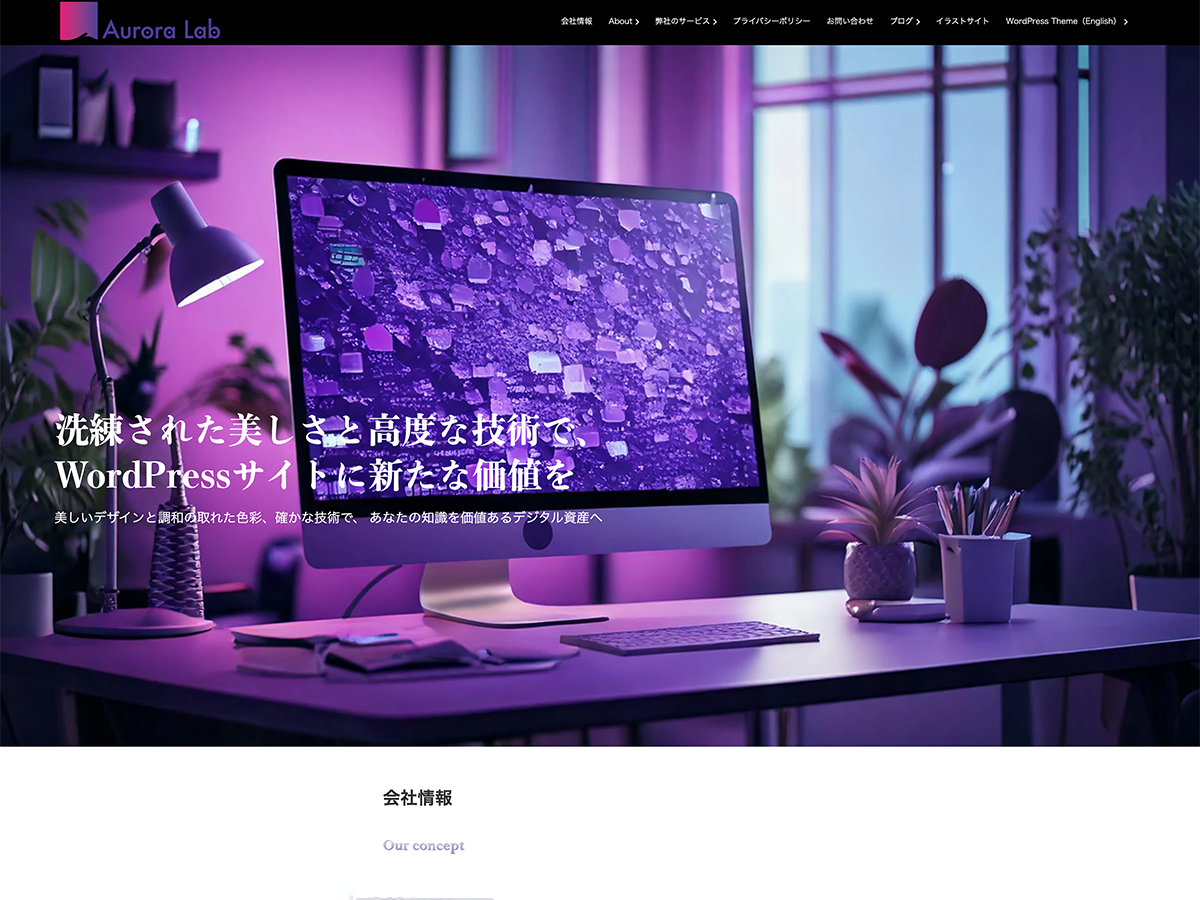
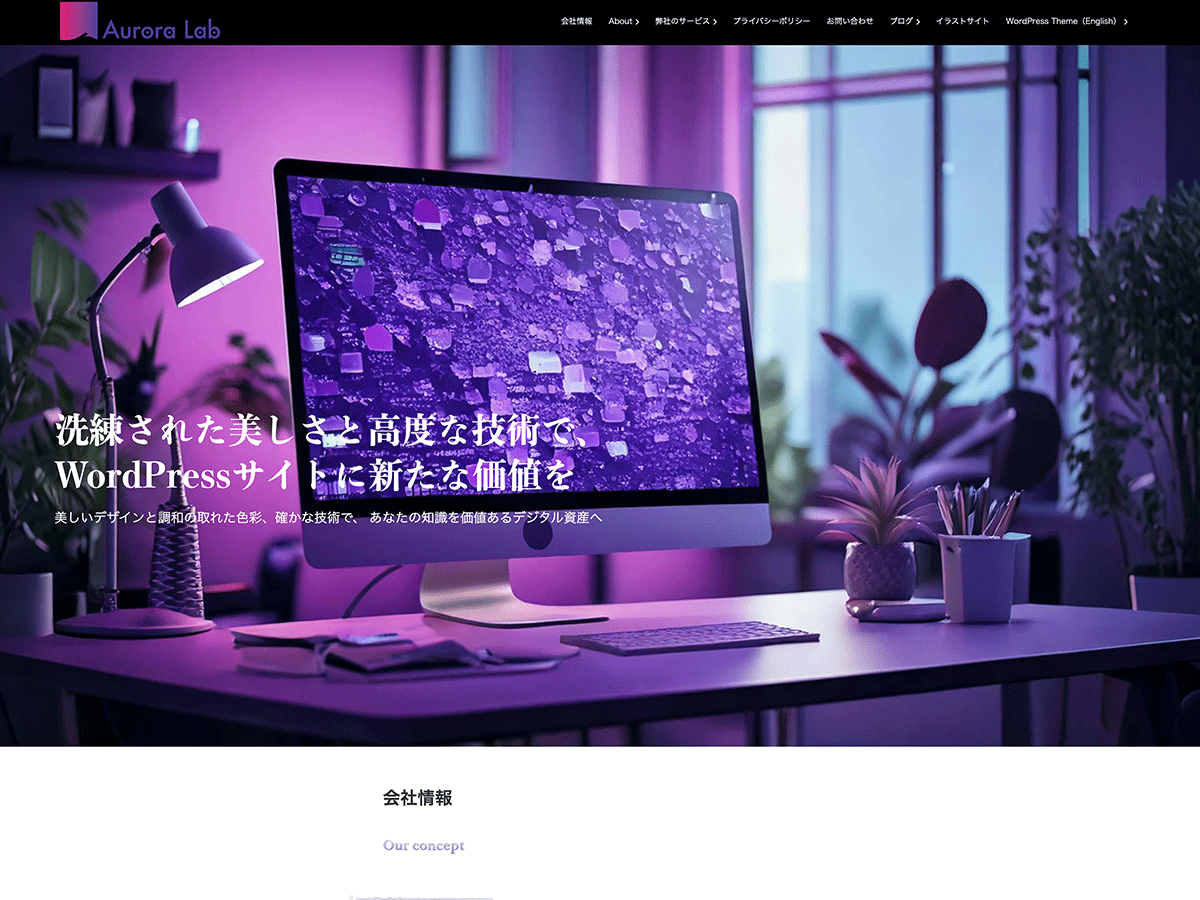
スライダー：cssのheight:autoを100vhに

Changed region(s): [[0.5858, 0.6533, 0.6167, 0.6844]]

diff --git a/css/integlight-slide-style.css b/css/integlight-slide-style.css
@@ -46,7 +46,7 @@
   font-size: 1.3rem;
   line-height: 2;
   font-weight: 400;
-  margin-top: 20px; 
+  margin-top: 20px;
   /* スライダーh2上スペース */
 }
 
@@ -110,7 +110,8 @@
 .slider.fade-effect .slide.active {
   opacity: 1;
   transition: opacity 3s ease-in-out;
-  height: auto;
+  height: 100vh;
+  /*height:autoではレイアウトの再計算が行われるため100%(100vh)とする*/
 }
 
 /* フェード式エフェクト _e ////////////////////////////*/

diff --git a/js/integlight-scripts.js b/js/integlight-scripts.js
@@ -90,7 +90,7 @@ if (settings.displayChoice === settings.headerTypeNameSlider) {
     if (typeof SliderClass === "function") {
         jQuery(document).ready(function ($) {
 
-            // new SliderClass($, settings);
+            new SliderClass($, settings);
 
         });
     }
